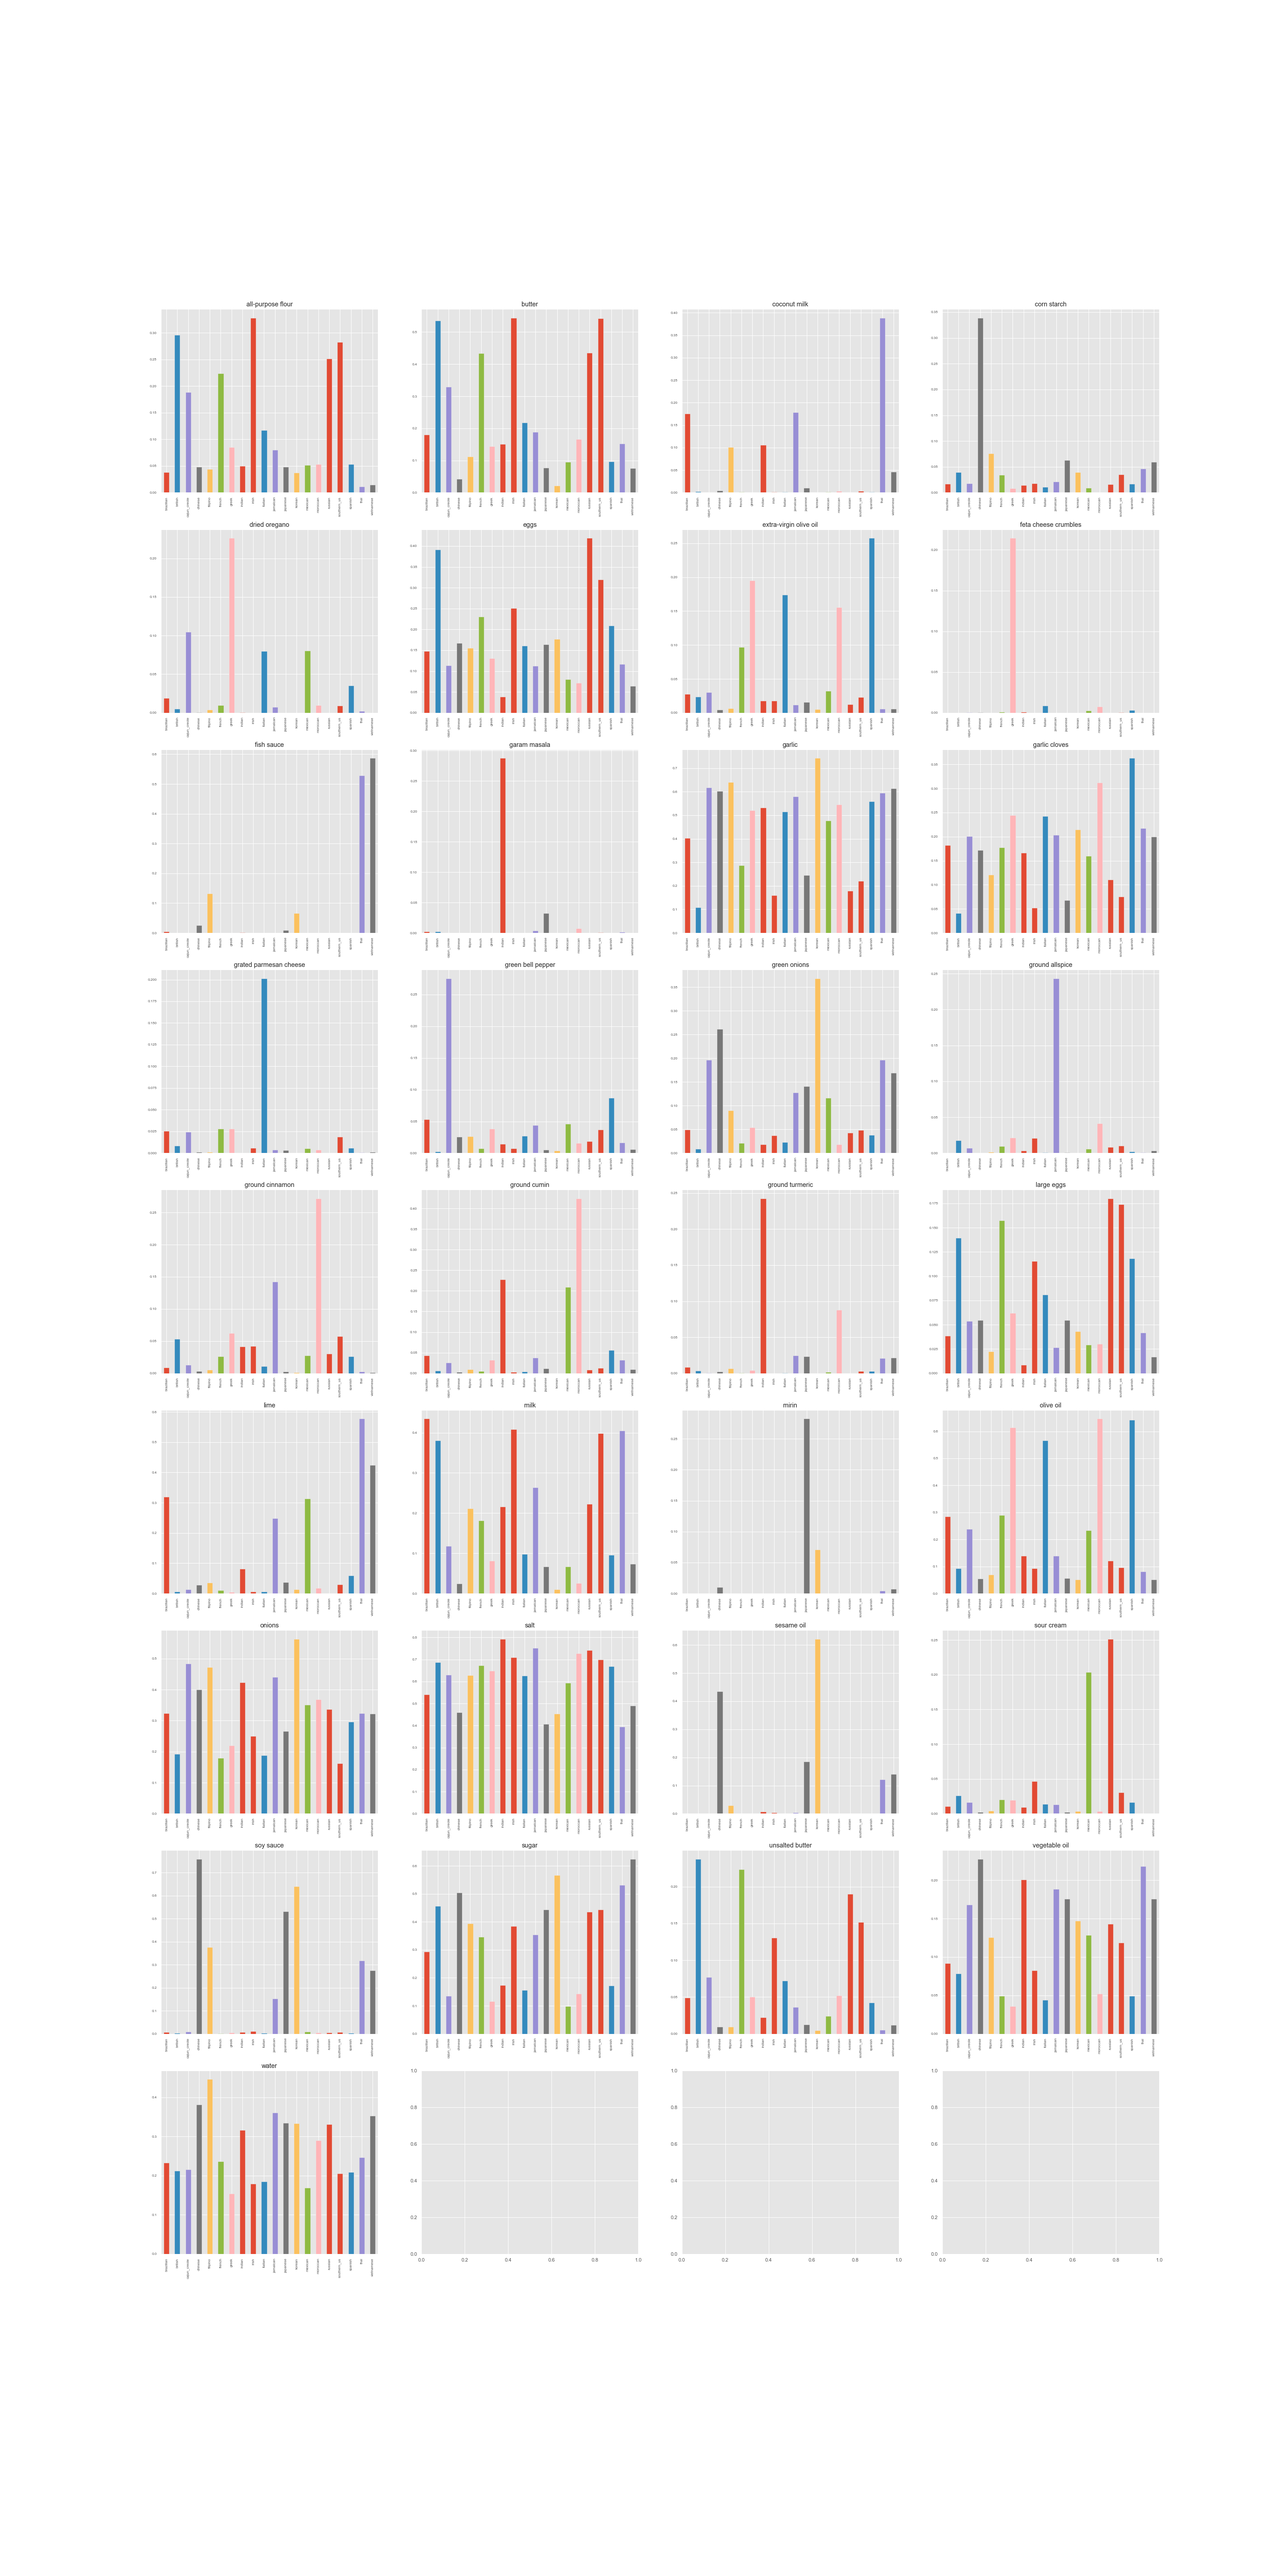
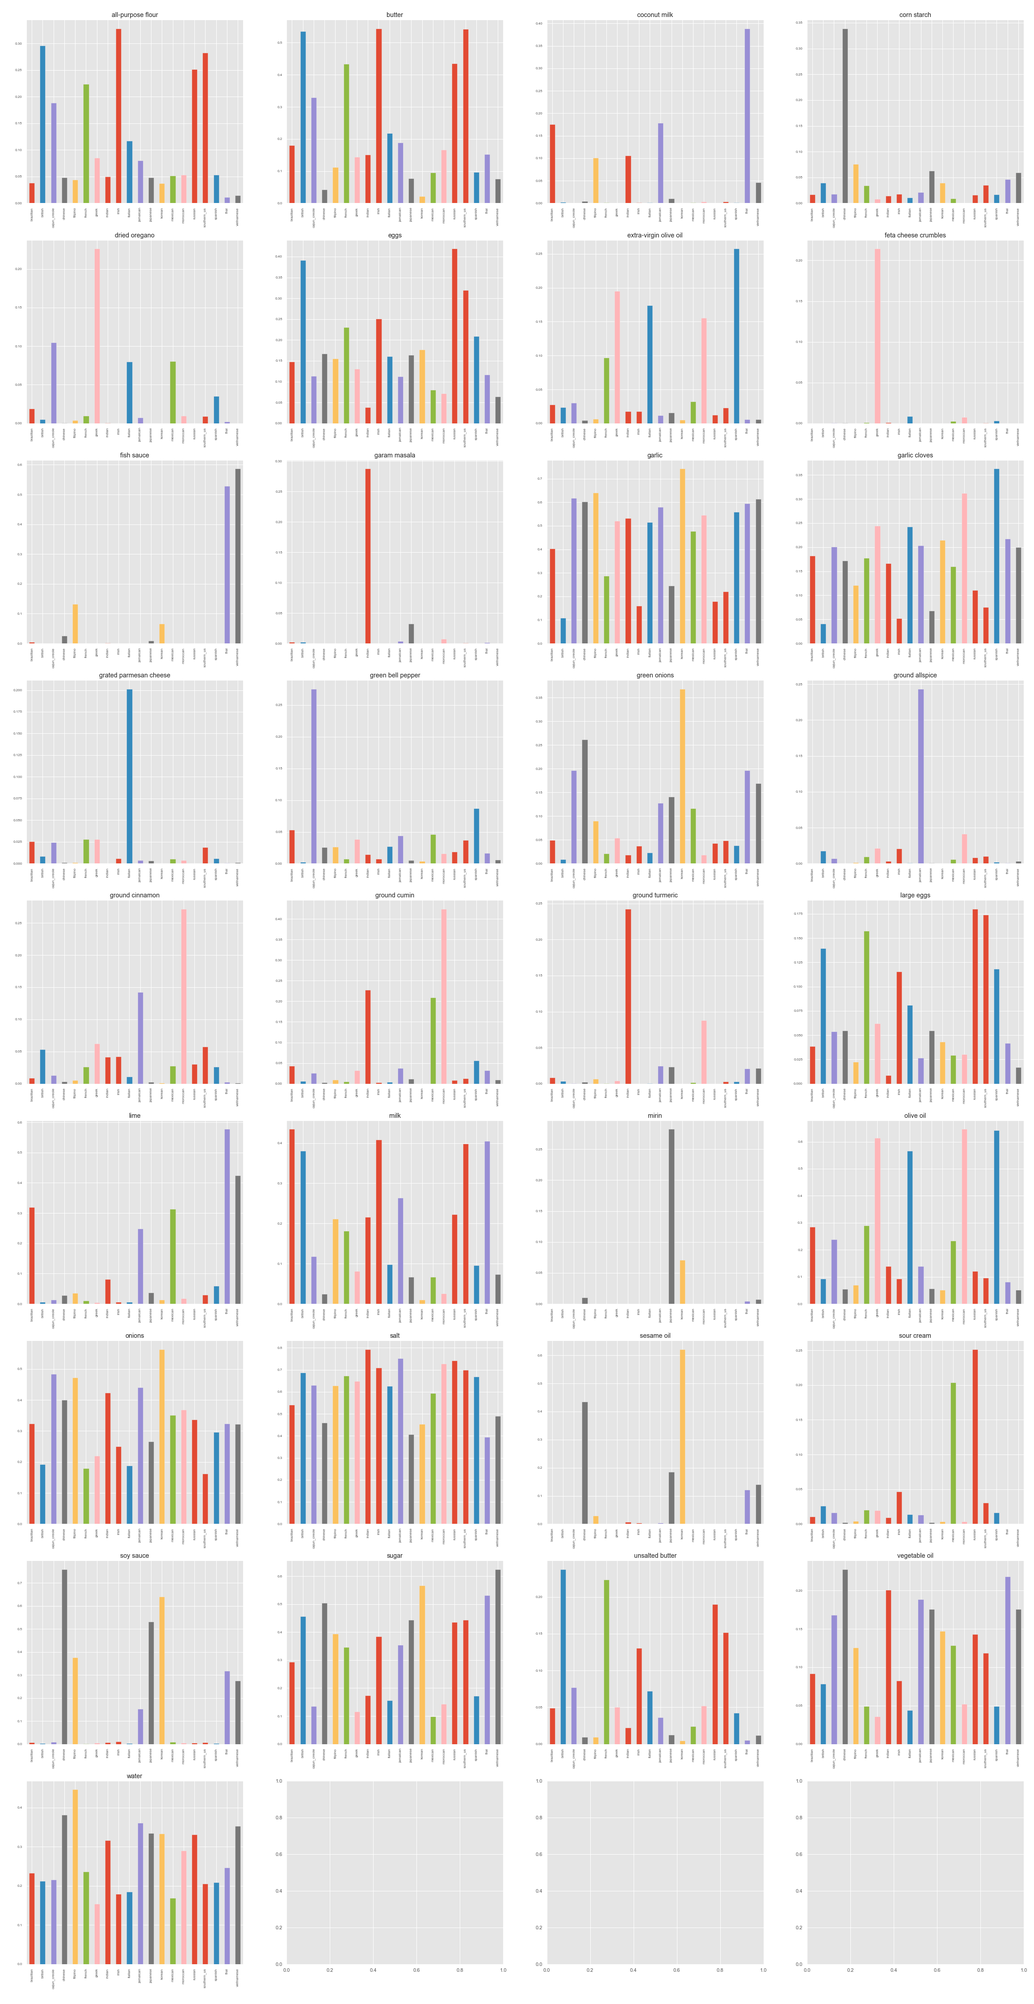
almost done

diff --git a/cuisinegraphs/donuts/subplot.html b/cuisinegraphs/donuts/subplot.html
@@ -12,9 +12,10 @@
             <h3>A lovely heading</h3>
             <p>A lovely paragraph</p>
         </div>
-        <div class= "row">
-            <img src="subplots.png" alt='subplots_img'>
-        </div>
+    </div>
+    <div class= "container" >
+        <img src="subplots.png" alt='subplots_img' style="width: 1250px;height: auto;">
+    </div>
     </div>
     
 </body>
